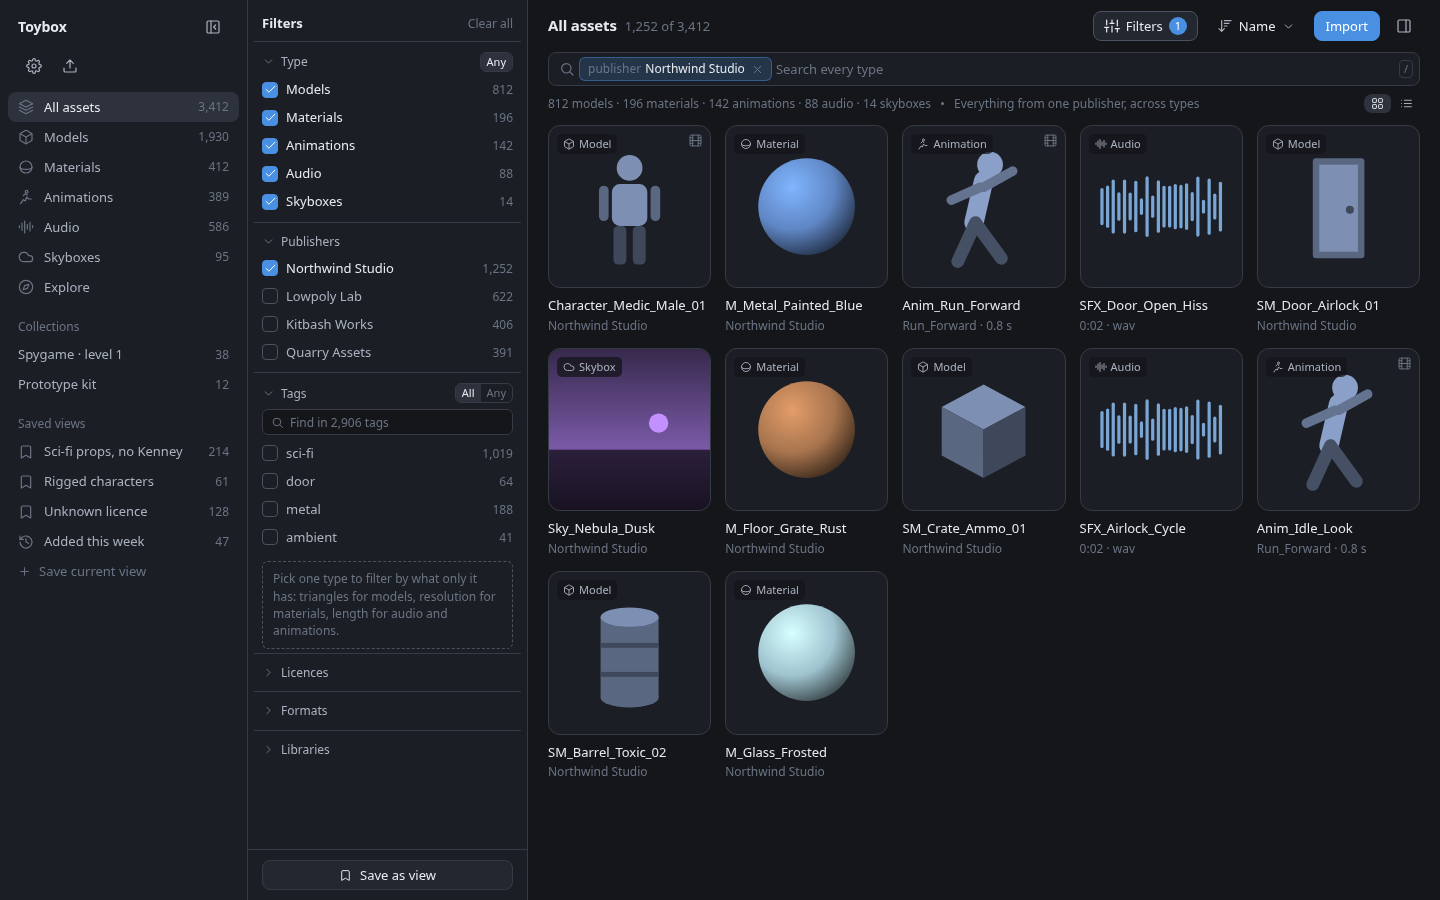
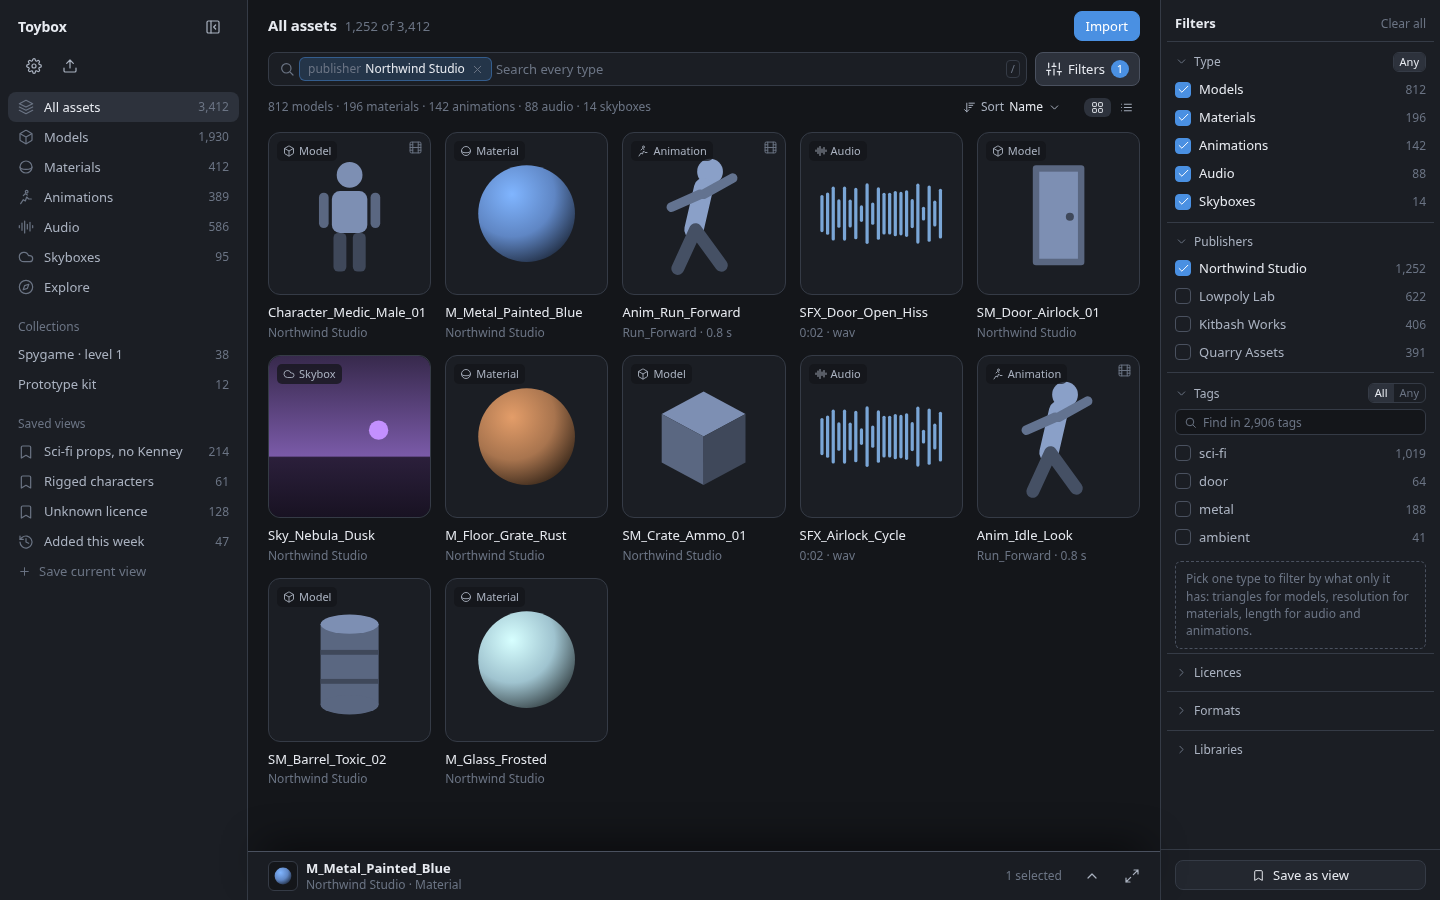
docs: move filters right, sort into the result line, preview into a bottom tray

diff --git a/docs/future-work/asset-browsing/README.md b/docs/future-work/asset-browsing/README.md
@@ -39,7 +39,7 @@ The search field becomes a full-width **query bar** under the page title. It hol
 
 ### 2. Filters with include and exclude
 
-The rail moves out of the navigation sidebar into its own **Filters pane** (the existing "Filter" button toggles it; on narrow windows it stays the existing drawer).
+The rail moves out of the navigation sidebar into its own **Filters pane on the right edge** of the window. Its **Filters** button sits at the end of the search row, beside the query bar, with a badge for the number of conditions; on narrow windows the pane stays the existing drawer. The left sidebar keeps only navigation: types, collections, saved views.
 
 - Every row has three states: off, **include** (✓), **exclude** (−). Hovering a row shows *Only* and *Exclude*; click toggles include, Alt-click excludes.
 - Each group has a match mode where it makes sense: Publishers *Any*, Tags *All / Any*. Exclusions always apply (an item with an excluded tag is gone, whatever else matches).
@@ -50,11 +50,11 @@ The rail moves out of the navigation sidebar into its own **Filters pane** (the 
 
 ### 3. Sort and group
 
-A **Sort** button next to Filters opens:
+Sorting is part of the content, not the page header: the **result line** under the search bar holds the count and what is hidden, then **Sort** and **Group** buttons and the grid/list switch. Sort opens:
 
 - Sort by: Relevance (only while searching), Name, Date added, Recently changed, Publisher, Source, File size, Format, and keys the type's plugin declares (Triangles, Materials used, Clip length, Duration, Resolution).
 - Direction, worded for the key ("Newest first", "A → Z", "Largest first").
-- Group by: None, Publisher, Source, Library, Type, Category, or a tag prefix (`biome:`). Each group has a header with its count and *Only this* / *Exclude*, and can collapse.
+- Group (its own button): None, Publisher, Source, Library, Type, Category, or a tag prefix (`biome:`). Each group has a header with its count and *Only this* / *Exclude*, and can collapse.
 - Shuffle: a new random order, for browsing.
 
 The sort is remembered per type.
@@ -85,6 +85,16 @@ And from any asset: right-click a tile's publisher/source for *Show only* / *Hid
 ![Explore](screens/explore.png)
 
 ![Pivoting from an asset](screens/related.png)
+
+### 7. Preview tray
+
+The inspector pane on the right is replaced by a **preview tray** at the bottom of the content, between the two side bars, so the right side is free for filters.
+
+- **Collapsed**: one line with the thumbnail, name, publisher and type, and buttons to open the tray or the full view.
+- **Open**: preview, properties, *Find more by* chips and the actions (favourite, add to collection, export). Everything the inspector shows today (viewers, variants, lighting, plugin panels, transfer) moves into it.
+- **Expanded**: opens the existing full view of the asset.
+
+The tray floats over the grid, and the grid keeps bottom padding equal to the tray's height, so scrolling still reaches the last row.
 
 ## Data model
 
